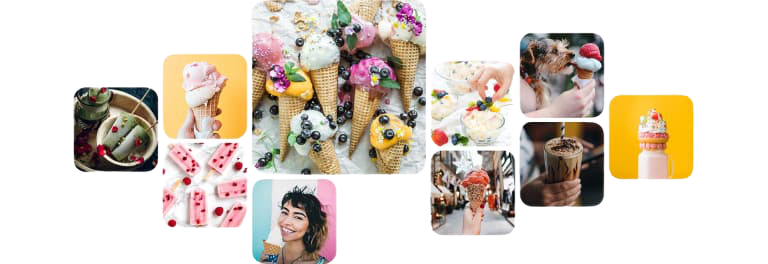
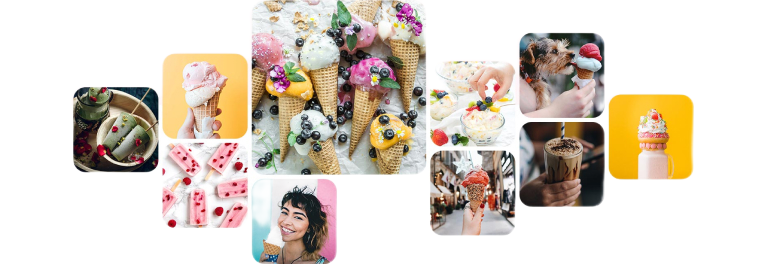
правки + tab/desktop version

diff --git a/src/partials/gallery.html b/src/partials/gallery.html
@@ -10,7 +10,7 @@
             <source srcset="../src/images/gallery/gallery-img-1x-mob.png 1x,
                                     ../src/images/gallery/gallery-img-2x-mob.png 2x
                                     " media="(min-width: 320px)">
+            <img class="gallery__item" src="../src/images/gallery/gallery-img-1x-mob.png" alt="poster-ice-cream">
         </picture>
-        <img class="gallery__item" src="../src/images/gallery/gallery-img-1x-mob.png" alt="poster-ice-cream">
     </div>
 </section>

diff --git a/src/sass/layout/_gallery.scss b/src/sass/layout/_gallery.scss
@@ -1,6 +1,14 @@
 .gallery {
   background: linear-gradient(0deg, $primary-white-color 40%, $bkg-accent-color 60%);
   padding-top: 97px;
+
+  @media screen and (min-width: 768px) {
+    padding-top: 140px;
+  }
+
+  @media screen and (min-width: 1200px) {
+    padding-top: 139px;
+  }
 }
 
 .container {
